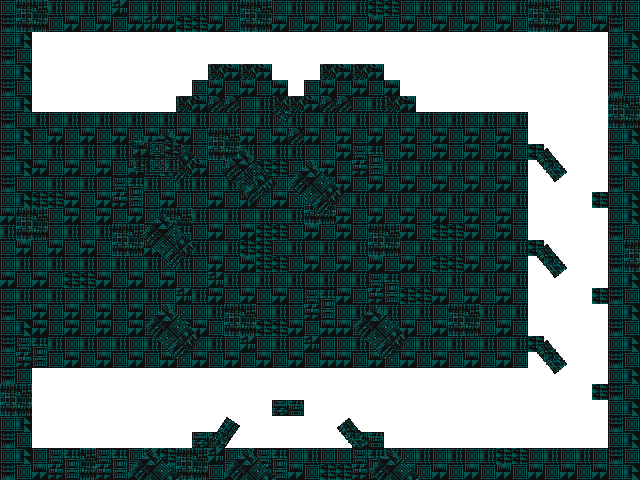
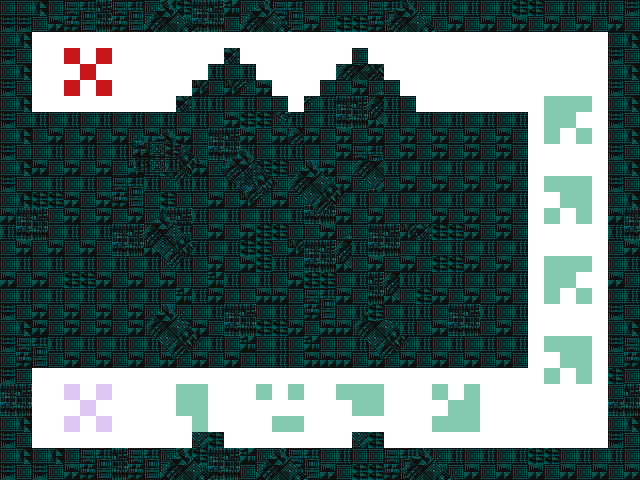
lvl 2 imposible

diff --git a/src/com/team/game/GameManager.java b/src/com/team/game/GameManager.java
@@ -79,8 +79,9 @@ public class GameManager extends AbstractGame {
 		}
 		
 		if(!levelCreado) {
-			switch (levelActual) {
+			switch (levelActual+1) {
 			case 1:
+			
 				levelImage = new Image("/Niveles/Nivel1/lvl1.png");
 				objects.add(new Player(5, 25));
 				posPlayerX = 5;
@@ -100,20 +101,16 @@ public class GameManager extends AbstractGame {
 				break;
 				
 			case 2:
-				levelImage = new Image("/level2Image.png");
-				objects.add(new Player(1, 5));
-				posPlayerX = 1;
-				posPlayerY = 5;
-				objects.add(new Platform(26, 7));
-				objects.add(new Platform(29, 7));
-				objects.add(new Platform(32, 7));
-				objects.add(new Platform(35, 7));
-				objects.add(new Flag(3, 17));
-				objects.add(new Flag(20, 19));
-				objects.add(new Spikes(18, 19, 13, false));
-				objects.add(new Spikes(1, 5, 15, true));
-				objects.add(new Diana(16,8,0));
-				loadLevel("/level2.png");
+				levelImage = new Image("/Niveles/Nivel2/lvl2.png");
+				objects.add(new Player(4, 26));
+				posPlayerX = 4;
+				posPlayerY = 26;
+				objects.add(new Flag(24, 27));
+				
+				objects.add(new Spikes(14, 21, 27, false));
+				
+				objects.add(new Diana(2,1,1));
+				loadLevel("/Niveles/Nivel2/colisionlvl2.png");
 				camara.setTarget(this.getObject("player"));
 				
 				sonidoLevel.setVolume(-40);

diff --git a/src/com/team/game/objects/Player.java b/src/com/team/game/objects/Player.java
@@ -58,9 +58,9 @@ public class Player extends GameObject{
 		this.posY = posY*GameManager.TILE_SIZE;
 		this.width = GameManager.TILE_SIZE;
 		this.height = GameManager.TILE_SIZE;
-		paddingLeft = 1;
-		paddingRight = 2;
-		paddingTop = 0;
+		paddingLeft = 3;
+		paddingRight = 4;
+		paddingTop = 1;
 		paddingBot = 0;
 
 		sonidoDanio.setVolume(-30);
